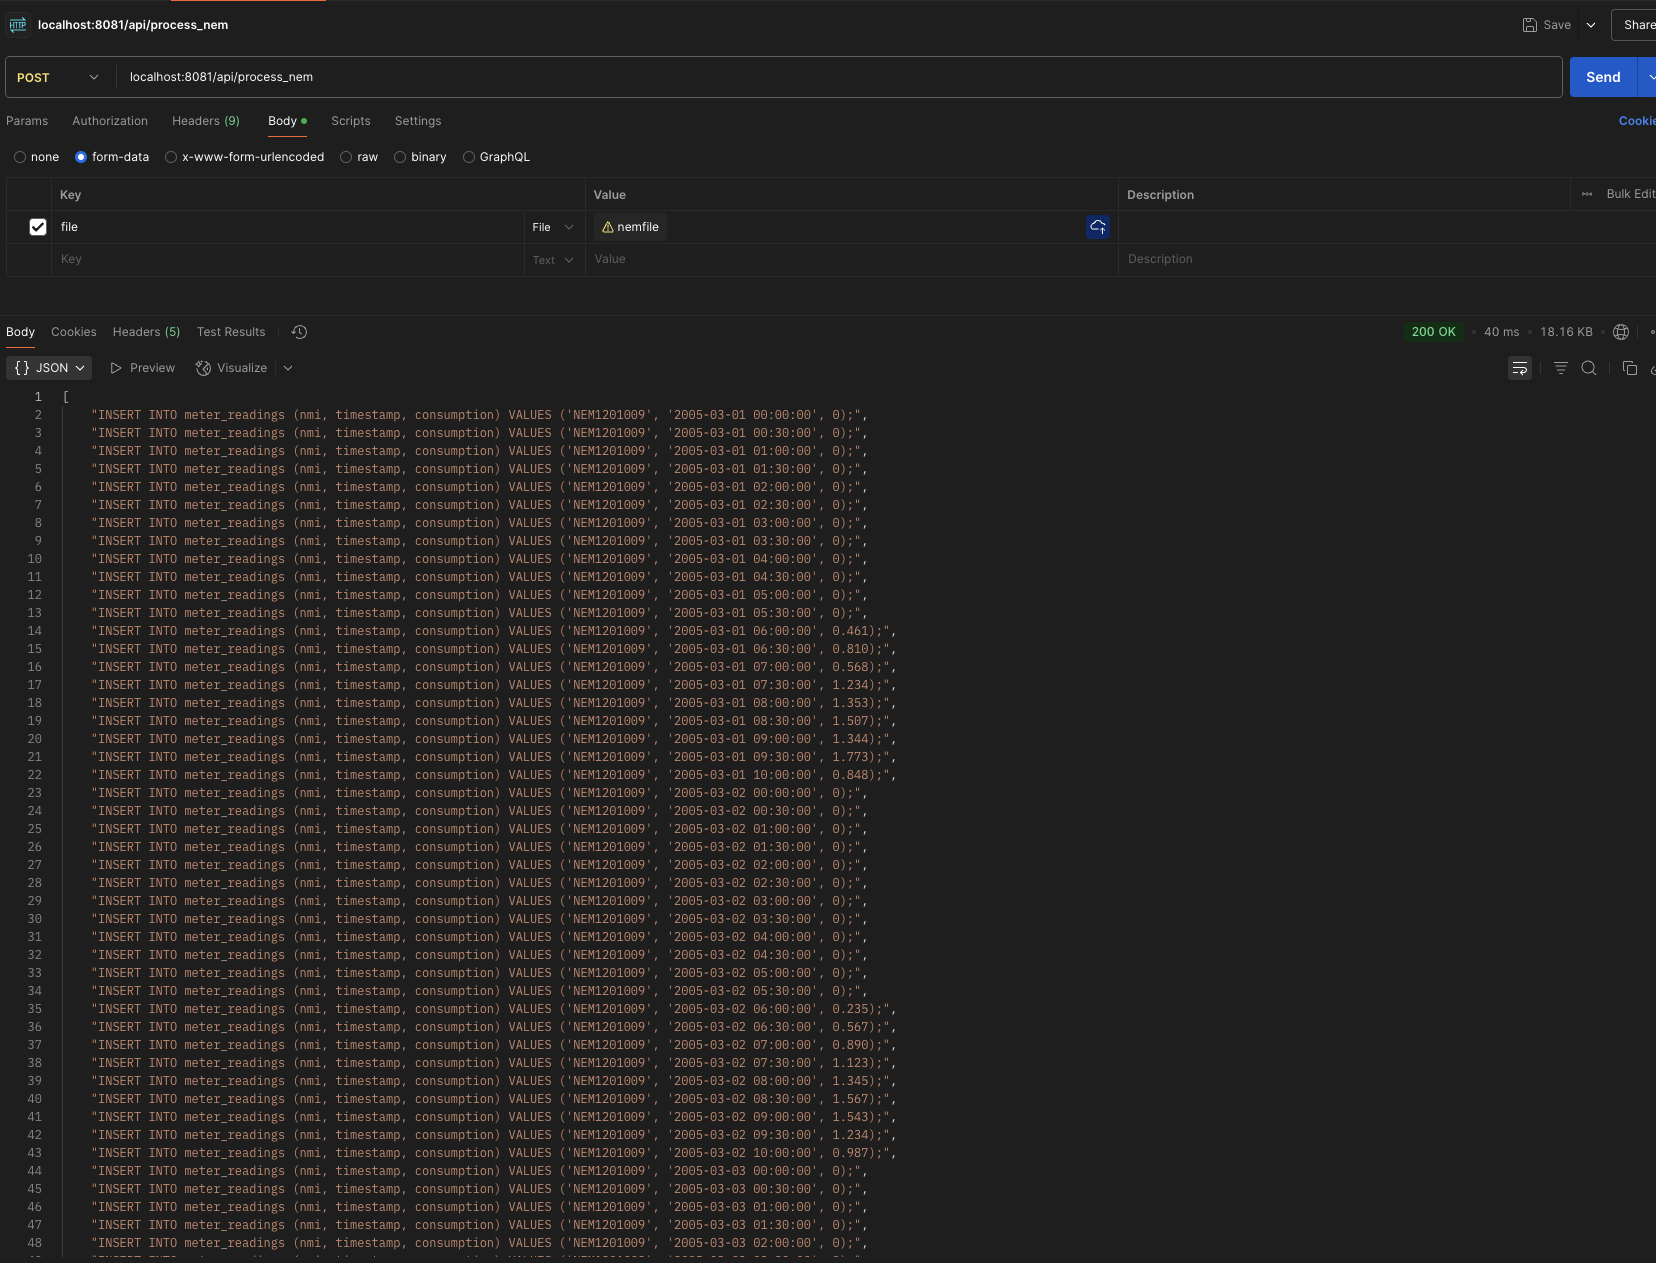
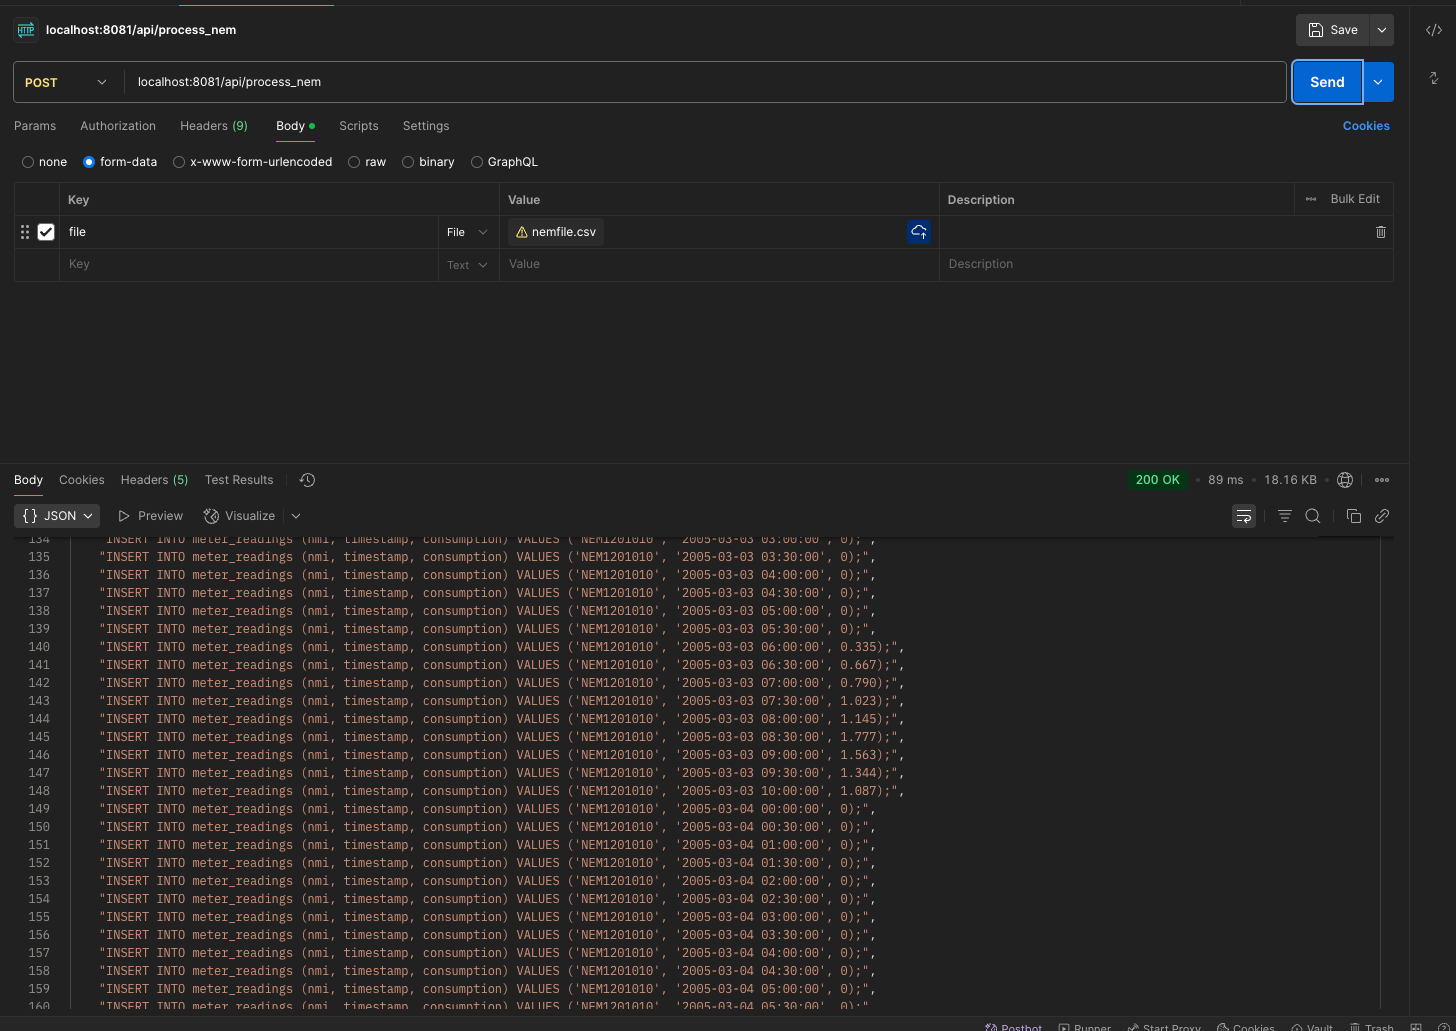
Add file validation

diff --git a/src/test/java/com/floenergy/nemparser/service/NemFileProcessingServiceTest.java b/src/test/java/com/floenergy/nemparser/service/NemFileProcessingServiceTest.java
@@ -71,9 +71,34 @@ class NemFileProcessingServiceTest {
     List<String> mockSqlStatements = Arrays.asList();
     when(nemFileParser.parseNemFileToSql(any(Path.class))).thenReturn(mockSqlStatements);
 
-    List<String> sqlStatements = nemFileProcessingService.processFile(emptyFile);
+    IllegalArgumentException exception =
+        assertThrows(
+            IllegalArgumentException.class, () -> nemFileProcessingService.processFile(emptyFile));
+    assertEquals("File empty", exception.getMessage());
+  }
 
-    assertNotNull(sqlStatements);
-    assertTrue(sqlStatements.isEmpty());
+  @Test
+  void testProcessFile_invalidExtension() {
+    MockMultipartFile invalidFile =
+        new MockMultipartFile("file", "invalid.txt", "text/plain", "some text".getBytes());
+
+    IllegalArgumentException exception =
+        assertThrows(
+            IllegalArgumentException.class,
+            () -> nemFileProcessingService.processFile(invalidFile));
+
+    assertEquals("Only .csv files are allowed.", exception.getMessage());
+  }
+
+  @Test
+  void testProcessFile_emptyFile_throwsException() {
+    MockMultipartFile emptyFile =
+        new MockMultipartFile("file", "empty.csv", "text/csv", new byte[0]);
+
+    IllegalArgumentException exception =
+        assertThrows(
+            IllegalArgumentException.class, () -> nemFileProcessingService.processFile(emptyFile));
+
+    assertEquals("File empty", exception.getMessage());
   }
 }

diff --git a/src/test/java/com/floenergy/nemparser/controller/NemFileUploadControllerTests.java b/src/test/java/com/floenergy/nemparser/controller/NemFileUploadControllerTests.java
@@ -68,6 +68,23 @@ class NemFileUploadControllerTests {
   }
 
   @Test
+  void testUploadNemFile_inavlidFileError() throws Exception {
+    String content = "invalid";
+    MockMultipartFile file =
+        new MockMultipartFile("file", "test.csv", "text/csv", content.getBytes());
+
+    when(nemFileProcessingService.processFile(any()))
+        .thenThrow(new IllegalArgumentException("Bad file"));
+
+    mockMvc
+        .perform(
+            multipart("/api/process_nem").file(file).contentType(MediaType.MULTIPART_FORM_DATA))
+        .andExpect(status().is4xxClientError())
+        .andExpect(content().contentTypeCompatibleWith(MediaType.APPLICATION_JSON))
+        .andExpect(content().json("{\"error\":\"Invalid file\",\"message\":\"Bad file\"}"));
+  }
+
+  @Test
   void testUploadNemFile_emptyFile() throws Exception {
     // Prepare an empty mock MultipartFile
     MockMultipartFile emptyFile =

diff --git a/src/main/java/com/floenergy/nemparser/service/NemFileProcessingService.java b/src/main/java/com/floenergy/nemparser/service/NemFileProcessingService.java
@@ -23,7 +23,16 @@ public class NemFileProcessingService {
 
   public List<String> processFile(MultipartFile file) {
     try {
+      if (file.isEmpty()) {
+        throw new IllegalArgumentException("File empty");
+      }
+
+      if (!file.getOriginalFilename().toLowerCase().endsWith(".csv")) {
+        throw new IllegalArgumentException("Only .csv files are allowed.");
+      }
+
       Path nemFilePath = Files.createTempFile("nem12", ".csv");
+
       file.transferTo(nemFilePath.toFile());
       List<String> sqlStatements = nemFileParser.parseNemFileToSql(nemFilePath);
       return sqlStatements;

diff --git a/src/main/java/com/floenergy/nemparser/controller/NemFileUploadController.java b/src/main/java/com/floenergy/nemparser/controller/NemFileUploadController.java
@@ -27,6 +27,9 @@ public class NemFileUploadController {
     try {
       List<String> sqlStatements = nemFileProcessingService.processFile(file);
       return ResponseEntity.ok(sqlStatements);
+    } catch (IllegalArgumentException e) {
+      return ResponseEntity.status(HttpStatus.BAD_REQUEST)
+          .body(Map.of("error", "Invalid file", "message", e.getMessage()));
     } catch (CompletionException e) {
       return ResponseEntity.status(HttpStatus.BAD_REQUEST)
           .body(Map.of("error", "Error processing the file", "message", e.getMessage()));

diff --git a/src/test/java/com/floenergy/nemparser/NemFileParserApplicationTests.java b/src/test/java/com/floenergy/nemparser/NemFileParserApplicationTests.java
@@ -26,7 +26,7 @@ class NemFileParserApplicationTests {
 
   @Test
   void testUploadNemFile_returnsExpected() throws Exception {
-    ClassPathResource nemFileResource = new ClassPathResource("nem12_file");
+    ClassPathResource nemFileResource = new ClassPathResource("nem12_file.csv");
     ClassPathResource expectedJsonPath = new ClassPathResource("expectedSqlOut.json");
     String expectedJson =
         new String(expectedJsonPath.getInputStream().readAllBytes(), StandardCharsets.UTF_8);
